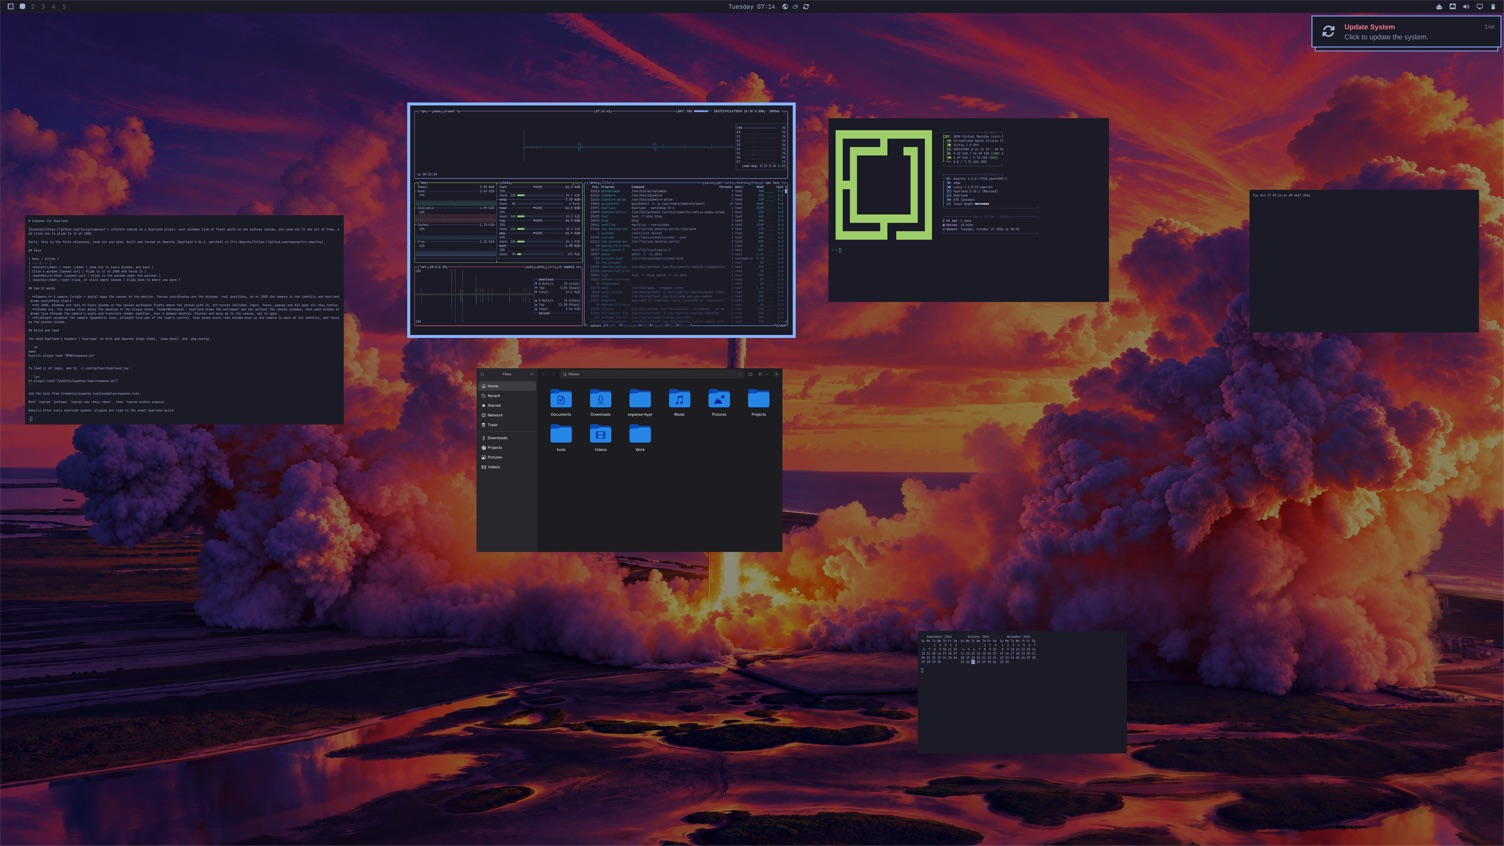
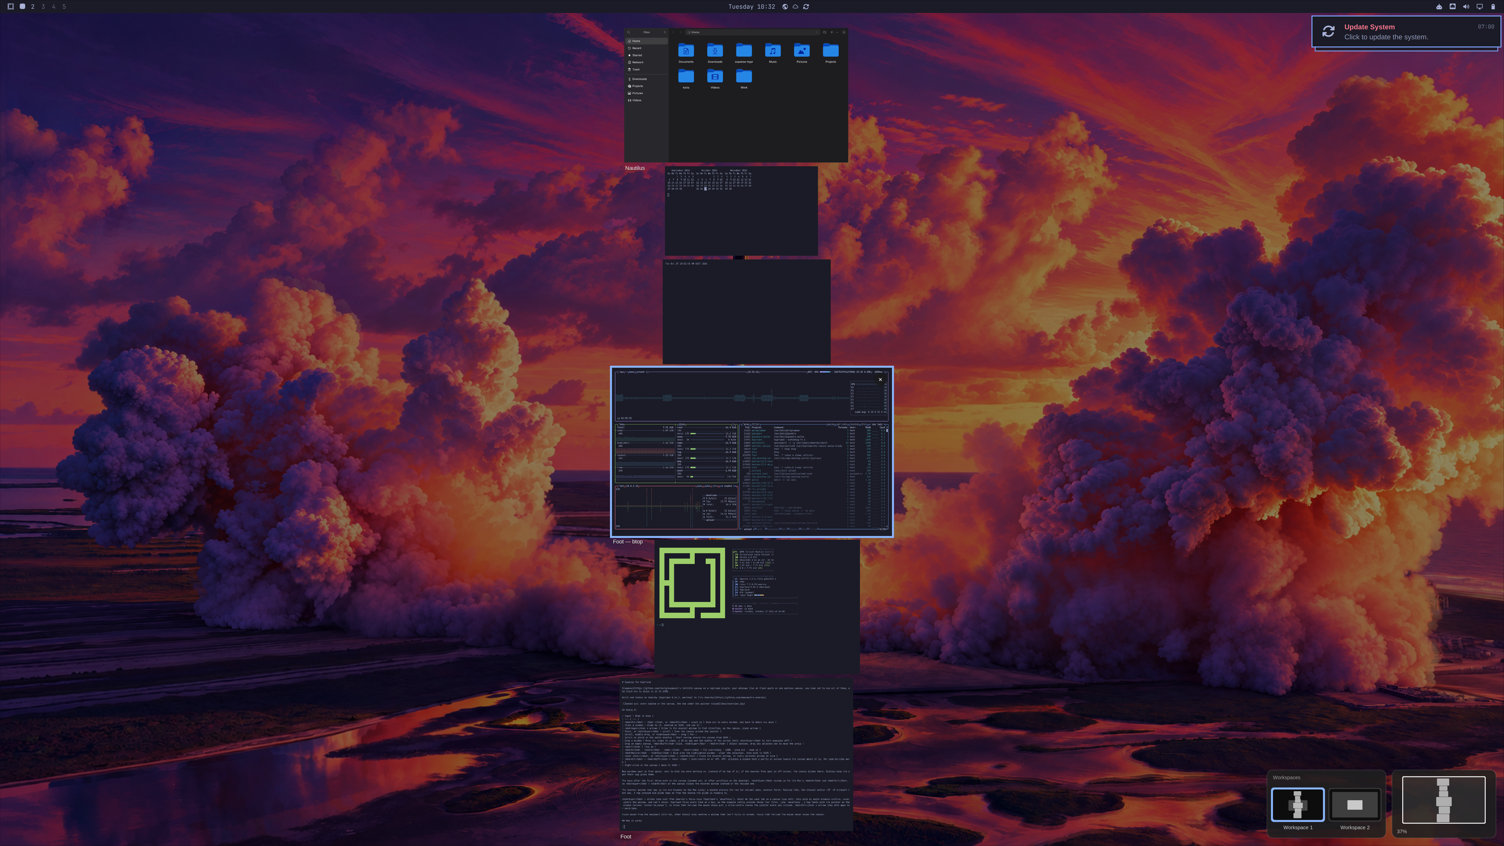
Bring the screenshot and feasibility read up to date

diff --git a/docs/feasibility.md b/docs/feasibility.md
@@ -1,7 +1,7 @@
 # Expanse on Omarchy/Hyprland: feasibility read (2026-10-27)
 
 ## Verdict
-Feasible, and easier than on macOS: a Hyprland plugin runs inside the compositor, so it can draw live scaled windows and own input while zoomed out. Milestone 1 (zoom out and pick) works on Omarchy aarch64 in Try Omarchy.
+Feasible, and easier than on macOS: a Hyprland plugin runs inside the compositor, so it can draw live scaled windows and own input while zoomed out. Every feature in Expanse's README now works on Omarchy aarch64 in Try Omarchy (see the main README for what and how).
 
 ## VM on this Mac
 - try-omarchy is a notarized Mac app: QEMU + Apple Hypervisor framework + VirGL GPU, running stock aarch64 Omarchy (edge channel), plus one guest package for Mac integration.
@@ -22,7 +22,8 @@ Feasible, and easier than on macOS: a Hyprland plugin runs inside the compositor
 - Protected members (`renderWindow`, a window's raw hidden flag, an animated variable's "being animated" flag) are reached through explicit-instantiation member pointers. `#define private public` breaks GCC 16's `<any>`.
 - No stable ABI: rebuild on every Hyprland update.
 - Camera vs windows: Hyprland has no global camera. At 100% the camera is implicit and panning moves every floating window's real position (Expanse's macOS approach); input, focus, popups and X11 stay native. Only while zoomed out or gliding is anything drawn through the camera.
-- Workspaces: canvas = the monitor's active workspace, all windows floating. Workspace keys are left alone for now.
+- Workspaces: each workspace is a canvas of its own (the monitor's active one is shown), all windows floating. Workspace binds stay Hyprland's; switching while zoomed out brings the canvas along, and a workspaces bar stands in for Expanse's Spaces bar.
+- Full screen: Hyprland fades out every other window under a full-screen one, so the canvas takes a full-screen window out of full screen while it's up, through the same handler that put it there (otherwise Hyprland remembers the wrong floating size), and puts it back if you leave without picking another window.
 
 ## Prior art
 - Phantomat (github.com/kaolti/phantomat, BSD-3): an Expanse-like infinite canvas plugin made on Omarchy with Hyprland 0.56 (x86_64, NVIDIA): zoom out, type/click to land, SUPER+arrows hops, tidy-up, remembers spots, lens effects. Fork of hyprland-scroll-overview. Closest prior art; relies on function hooks, so x86_64 only.

diff --git a/README.md b/README.md
@@ -4,7 +4,7 @@
 
 Built and tested on Omarchy (Hyprland 0.56.2, aarch64) in [Try Omarchy](https://github.com/omacom/try-omarchy).
 
-![Zoomed out: every window on the canvas, the one under the pointer ringed](docs/overview.jpg)
+![Zoomed out: every window on the canvas, the one under the pointer ringed; the workspaces bar and minimap bottom right](docs/overview.jpg)
 
 ## Using it
 
